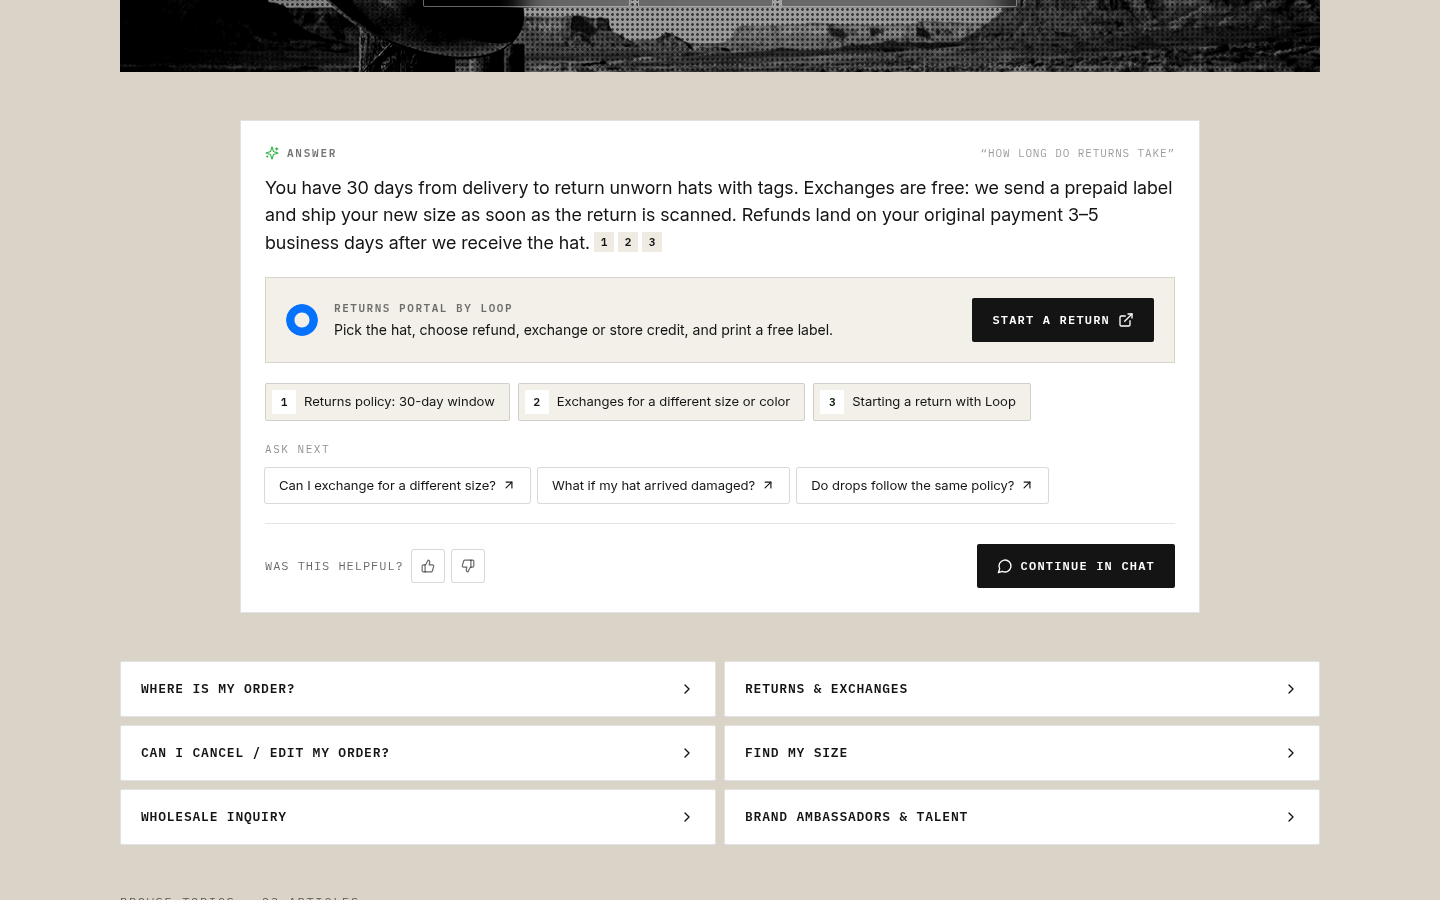
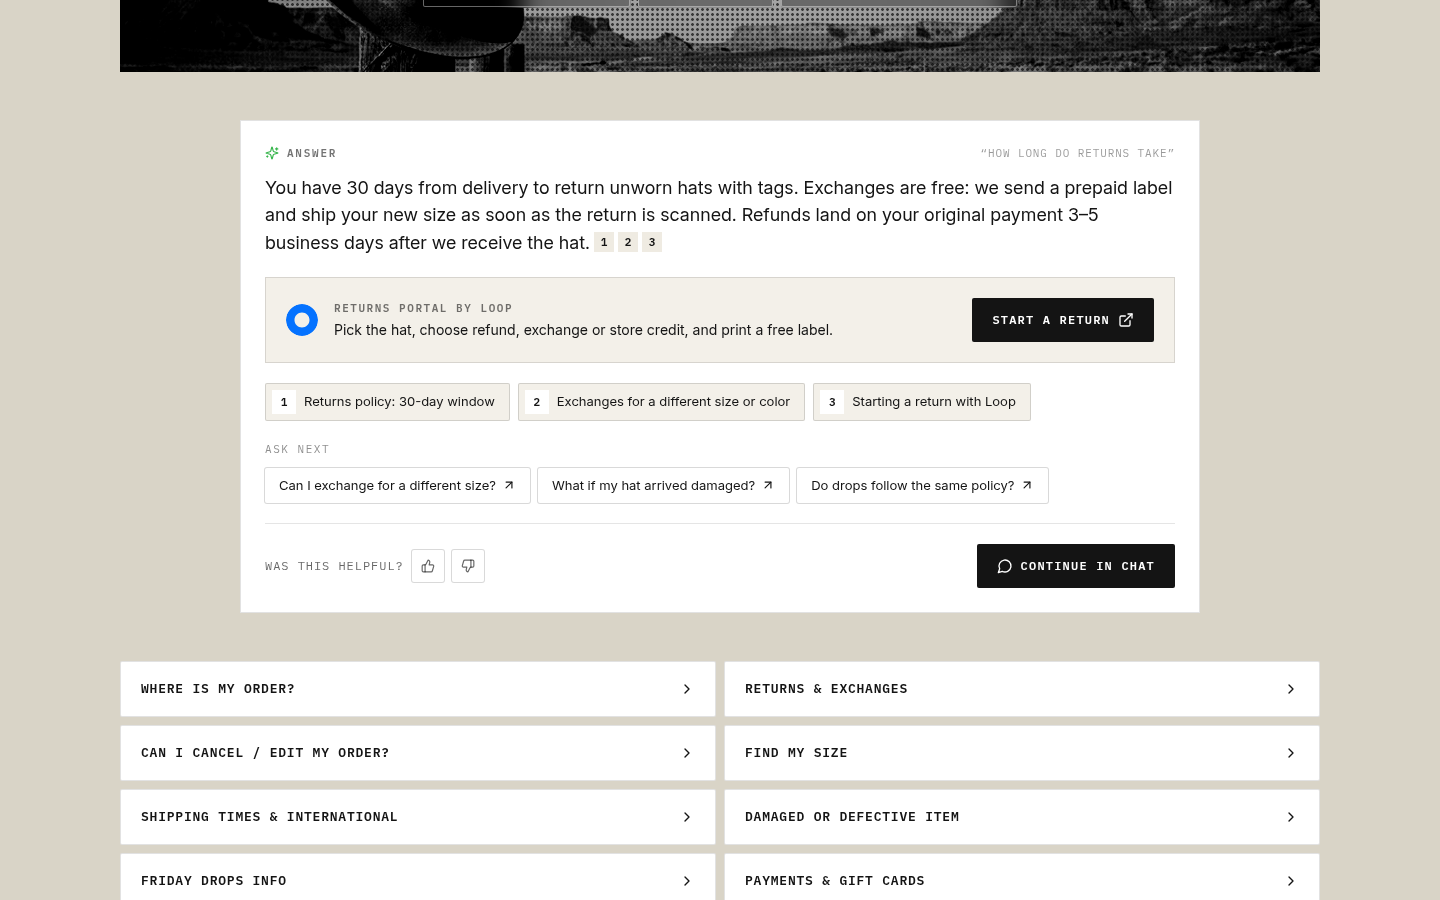
The "Browse topics" list is gone from the Help Center home page. In its place are 14 white question boxes in your order: two columns on desktop and one on phones.
- **Each box asks its question:** it opens the AI answer straight away, with links to the articles it used.
- **Built-in actions:** Where is my order?, Returns & exchanges, Can I cancel / edit my order? and Find my size also show their tracking, return, change-order and size tools.
- **Topic pages:** they still open from the numbered article links in answers and from the trail at the top of article pages.

I checked the screenshots myself; there was no separate test run. The builder confirmed each box is matched to the right answer, but only "Where is my order?" was actually clicked, and it opened the tracking form. All answers are MOCKED pre-written replies.

Emergent-Commit-Key: b25c5492f1226e5885917b13899807d9cbff368e311fd9ad1ed0d15f1706ac9d

Changed region(s): [[0.0625, 0.9022, 0.9375, 1.0]]

diff --git a/frontend/src/pages/HelpHomePage.tsx b/frontend/src/pages/HelpHomePage.tsx
@@ -1,23 +1,20 @@
-import { Link } from 'react-router-dom'
-import { ArrowRight, ChevronRight } from 'lucide-react'
-import { helpApi } from '@/api'
-import { useApi } from '@/hooks/useApi'
+import { ChevronRight } from 'lucide-react'
 import { HelpShell } from '@/components/help/HelpShell'
 import { HelpSearch } from '@/components/help/HelpSearch'
 import { AnswerCard } from '@/components/help/AnswerCard'
 import { ChatLine, Thinking, useAsk } from '@/components/help/helpKit'
-import { Skeleton } from '@/components/ui/skeleton'
 
 const QUICK: [label: string, q: string][] = [
   ['Where is my order?', 'Where is my order?'], ['Returns & exchanges', 'How do I start a return?'], ['Can I cancel / edit my order?', 'Can I cancel / edit my order?'],
-  ['Find my size', 'What size am I?'], ['Wholesale inquiry', 'Wholesale inquiry'], ['Brand ambassadors & talent', 'Brand ambassadors & talent inquiry'],
+  ['Find my size', 'What size am I?'], ['Shipping times & international', 'How long does shipping take?'], ['Damaged or defective item', 'My hat arrived damaged'],
+  ['Friday Drops info', 'How do Friday Drops work?'], ['Payments & gift cards', 'Payment methods we accept'], ['Cleaning & care', 'How do I clean my hat?'],
+  ['Is my Goorin authentic?', 'Is my Goorin authentic?'], ['Manufacturer guarantee', 'What does the guarantee cover?'], ['Custom orders & embroidery', 'Do you do custom embroidery?'],
+  ['Wholesale inquiry', 'Wholesale inquiry'], ['Brand ambassadors & talent', 'Brand ambassadors & talent inquiry'],
 ]
 const POPULAR = ['How long do returns take?', 'What size am I?', 'When is the next Friday Drop?']
 
 export default function HelpHomePage() {
   const { answer, busy, ask, ref } = useAsk()
-  const { data: topics } = useApi(() => helpApi.listTopics(), [])
-  const total = topics?.reduce((n, t) => n + t.count, 0) ?? 0
   return (
     <HelpShell>
       <div className="mx-auto max-w-[1200px] space-y-12 max-sm:space-y-10">
@@ -42,22 +39,6 @@ export default function HelpHomePage() {
               {label}<ChevronRight className="h-4 w-4 shrink-0 transition-transform group-hover:translate-x-0.5" aria-hidden />
             </button>
           ))}
-        </section>
-
-        <section aria-labelledby="help-topics-label" data-testid="help-library">
-          <p id="help-topics-label" className="hc-mono text-[12px] uppercase tracking-[0.14em] text-black/60" data-testid="help-topics-label">Browse topics{topics ? ` · ${total} articles` : ''}</p>
-          <ul className="mt-4 grid grid-cols-3 gap-x-10 border-t border-[#141414]/12 max-lg:grid-cols-2 max-sm:grid-cols-1">
-            {!topics && Array.from({ length: 9 }, (_, i) => <li key={i} className="border-b border-[#141414]/12 py-4"><Skeleton className="h-5" /></li>)}
-            {topics?.map((t) => (
-              <li key={t.slug} className="border-b border-[#141414]/12">
-                <Link to={`/help/topic/${t.slug}`} className="group flex items-center gap-3 py-4 text-[15px] font-medium transition-colors hover:text-black/60" data-testid={`help-topic-${t.slug}`}>
-                  <span className="min-w-0 flex-1 truncate">{t.title}</span>
-                  <span className="text-[13px] font-normal text-black/50">{t.count} article{t.count === 1 ? '' : 's'}</span>
-                  <ArrowRight className="h-4 w-4 shrink-0 transition-transform group-hover:translate-x-0.5" aria-hidden />
-                </Link>
-              </li>
-            ))}
-          </ul>
         </section>
 
         <ChatLine />
